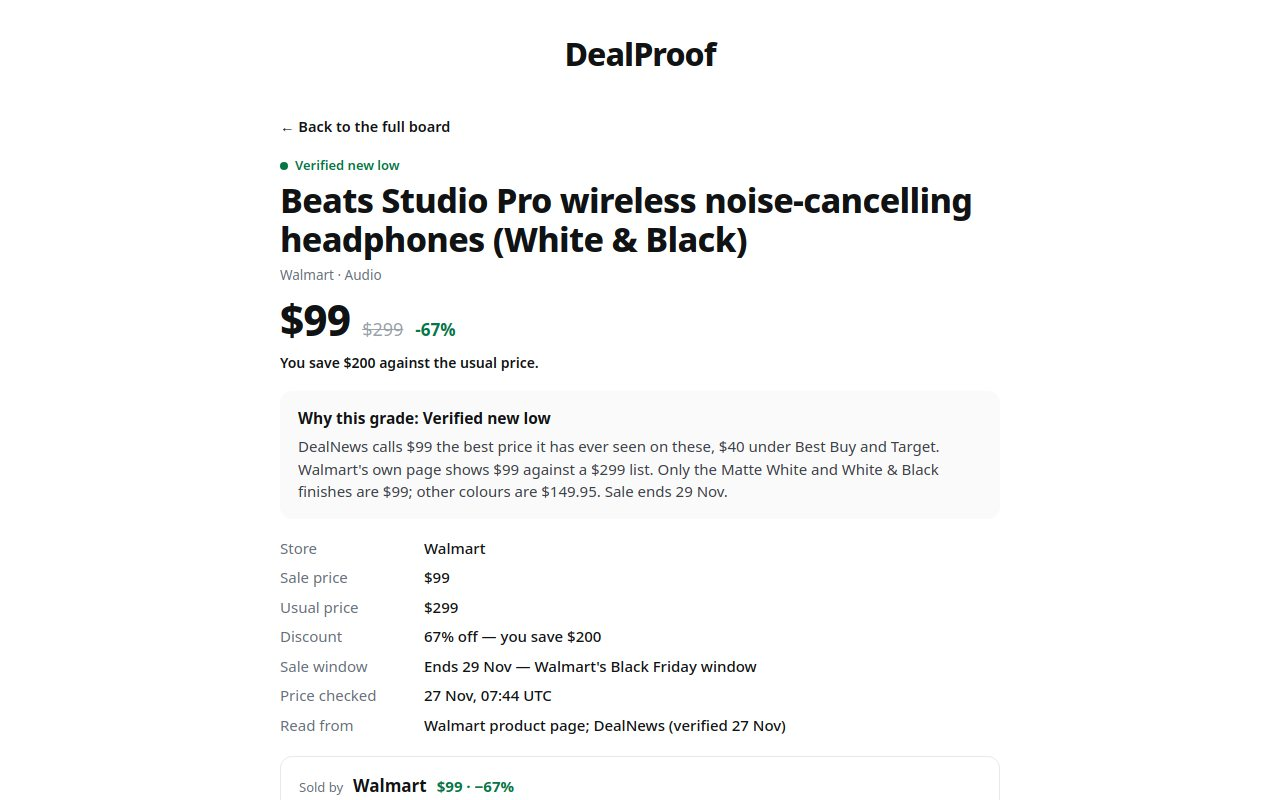
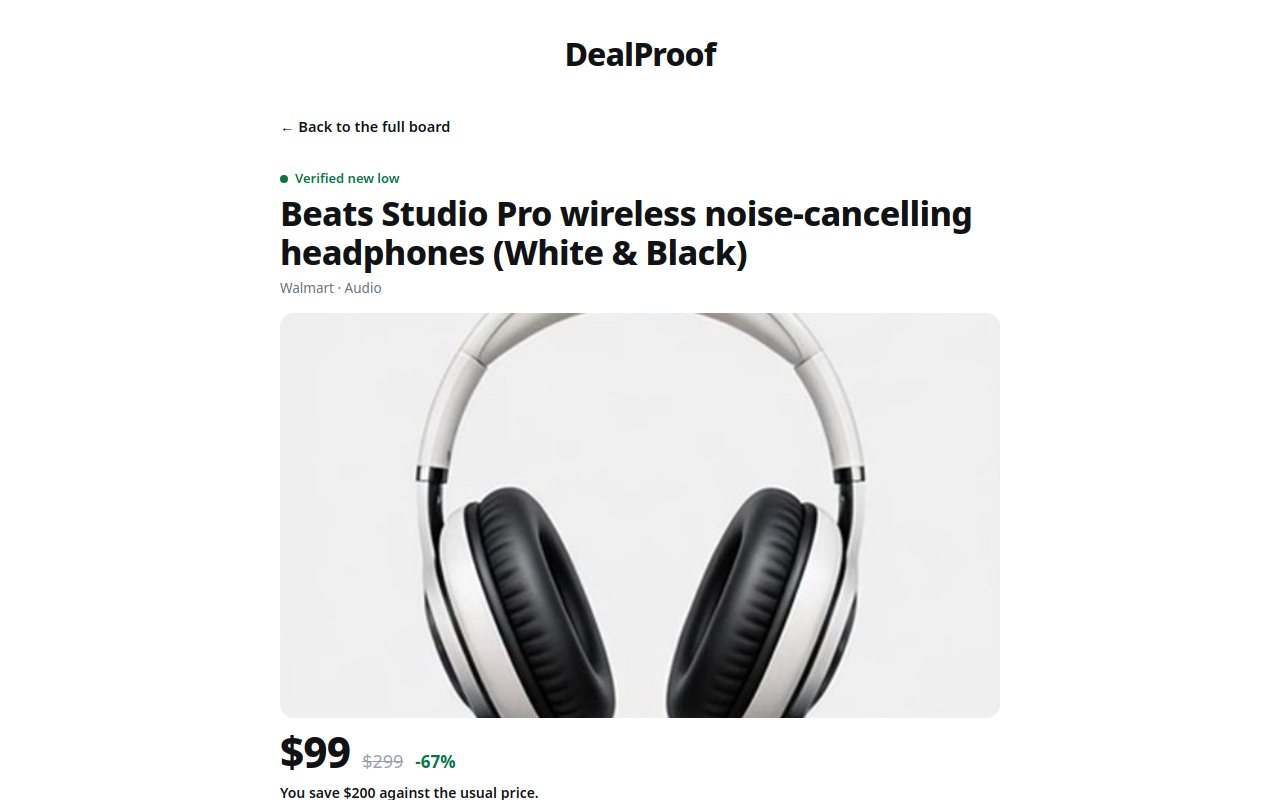
Product illustrations on every deal

Changed region(s): [[0.2188, 0.1875, 0.7812, 1.0], [0.2188, 0.7188, 0.2812, 0.875]]

diff --git a/app/style.css b/app/style.css
@@ -96,25 +96,56 @@ a:focus-visible, button:focus-visible, input:focus-visible, select:focus-visible
 
 /* The board: rows divided by hairlines, price set large at the right. */
 .board, .compare { max-width: 1120px; margin: 0 auto; padding: 6px 20px; }
-.grid { display: block; }
-.card {
-  display: grid;
-  grid-template-columns: minmax(0, 1fr) auto;
-  column-gap: 28px;
-  padding: 20px 2px 18px;
-  border-bottom: 1px solid var(--line);
+.grid { display: grid; grid-template-columns: 1fr; gap: 38px 26px; }
+@media (min-width: 860px) {
+  .grid { grid-template-columns: 1fr 1fr; }
 }
-.card:hover { background: var(--surface); }
+.card {
+  display: flex;
+  flex-direction: column;
+  height: 100%;
+}
+.card-media {
+  border-radius: 14px;
+  overflow: hidden;
+  background: #f1f1ee;
+  aspect-ratio: 4 / 3;
+}
+.card-img {
+  width: 100%;
+  height: 100%;
+  object-fit: cover;
+  display: block;
+  transition: transform 0.35s ease;
+}
+.card:hover .card-img { transform: scale(1.03); }
+.detail-img {
+  width: 100%;
+  aspect-ratio: 16 / 9;
+  object-fit: cover;
+  border-radius: 14px;
+  background: #f1f1ee;
+  display: block;
+  margin: 14px 0 4px;
+}
+.top5-thumb {
+  width: 42px;
+  height: 42px;
+  border-radius: 9px;
+  object-fit: cover;
+  flex: none;
+  align-self: center;
+  background: #f1f1ee;
+}
 .card { cursor: pointer; }
 .card-links { display: inline-flex; gap: 18px; }
 .details-link { font-size: 14px; font-weight: 600; text-decoration: none; white-space: nowrap; }
 .details-link:hover { text-decoration: underline; text-underline-offset: 3px; }
 .card-top {
-  grid-column: 1 / -1;
   display: flex;
   justify-content: space-between;
   align-items: center;
-  margin-bottom: 6px;
+  margin: 13px 0 6px;
 }
 .badge {
   display: inline-flex;
@@ -128,23 +159,19 @@ a:focus-visible, button:focus-visible, input:focus-visible, select:focus-visible
 .badge-strong { color: var(--strong); }
 .badge-routine { color: var(--routine); }
 .badge-inflated { color: var(--inflated); }
-.card-title { grid-column: 1; font-size: 18px; font-weight: 650; line-height: 1.3; margin: 0; letter-spacing: -0.01em; }
+.card-title { font-size: 18px; font-weight: 650; line-height: 1.3; margin: 0; letter-spacing: -0.01em; }
 .card-title a { text-decoration: none; }
 .card-title a:hover { text-decoration: underline; text-underline-offset: 3px; }
 .card-meta {
-  grid-column: 1;
   margin: 3px 0 0;
   font-size: 13.5px;
   color: var(--muted);
 }
 .card-prices {
-  grid-column: 2;
-  grid-row: 2 / 5;
   display: flex;
-  flex-direction: column;
-  align-items: flex-end;
-  gap: 0;
-  text-align: right;
+  align-items: baseline;
+  gap: 10px;
+  margin-top: 9px;
 }
 .price-now {
   font-size: 27px;
@@ -155,16 +182,24 @@ a:focus-visible, button:focus-visible, input:focus-visible, select:focus-visible
 }
 .price-was { font-size: 14px; color: var(--faint); text-decoration: line-through; font-variant-numeric: tabular-nums; }
 .price-off { font-size: 14.5px; font-weight: 700; color: var(--low); }
-.card-saves { grid-column: 1; margin: 8px 0 0; font-size: 14px; font-weight: 600; }
-.card-evidence { grid-column: 1; margin: 4px 0 0; font-size: 14.5px; color: #3c4149; max-width: 620px; }
+.card-saves { margin: 6px 0 0; font-size: 14px; font-weight: 600; }
+.card-evidence {
+  margin: 6px 0 0;
+  font-size: 14.5px;
+  color: #3c4149;
+  display: -webkit-box;
+  -webkit-line-clamp: 3;
+  -webkit-box-orient: vertical;
+  overflow: hidden;
+}
 .card-foot {
-  grid-column: 1 / -1;
   display: flex;
   justify-content: space-between;
   align-items: baseline;
   gap: 12px;
   flex-wrap: wrap;
-  margin-top: 10px;
+  margin-top: auto;
+  padding-top: 12px;
 }
 .card-checked { font-size: 12.5px; color: var(--faint); }
 .store-link { font-size: 14px; font-weight: 600; text-decoration: none; white-space: nowrap; }

diff --git a/app/views.js b/app/views.js
@@ -31,9 +31,62 @@ export function signalBadge(deal) {
   return badge;
 }
 
+// One original illustration per product family, drawn for this site and
+// shipped as local files — the board never loads anything from a network.
+const IMAGE_RULES = [
+  [/airpods pro|earbuds/i, "earbuds"],
+  [/airpods max|headphones/i, "headphones"],
+  [/watch/i, "watch"],
+  [/airtag/i, "tracker"],
+  [/odyssey|monitor/i, "monitor"],
+  [/ssd/i, "ssd"],
+  [/ipad|kindle|tablet/i, "tablet"],
+  [/iphone|smartphone|galaxy/i, "phone"],
+  [/switch|console/i, "console"],
+  [/vacuum/i, "vacuum"],
+  [/griddle/i, "griddle"],
+  [/slushi|frozen drink/i, "slushie"],
+  [/air fryer/i, "airfryer"],
+  [/coffee|keurig/i, "coffee"],
+  [/lego/i, "bricks"],
+  [/camper/i, "camper"],
+  [/speaker/i, "speaker"],
+  [/doorbell/i, "doorbell"],
+  [/macbook|laptop|omnibook|yoga|dell/i, "laptop"],
+  [/tv\b|television/i, "tv"],
+];
+const IMAGE_BY_CATEGORY = {
+  Audio: "headphones",
+  Wearables: "watch",
+  Computers: "laptop",
+  "Phones & Tablets": "phone",
+  TVs: "tv",
+  Gaming: "console",
+  "Smart Home": "speaker",
+  Home: "vacuum",
+  Kitchen: "airfryer",
+  Toys: "bricks",
+};
+export function imgFor(deal) {
+  for (const [pattern, name] of IMAGE_RULES) if (pattern.test(deal.title)) return name;
+  return IMAGE_BY_CATEGORY[deal.category] ?? "tv";
+}
+function productImg(deal, className) {
+  const img = document.createElement("img");
+  img.className = className;
+  img.src = `img/${imgFor(deal)}.jpg`;
+  img.alt = "";
+  img.loading = "lazy";
+  return img;
+}
+
 export function dealCard(deal, opts = {}) {
   const card = el("article", "card");
   card.id = `card-${deal.id}`;
+
+  const media = el("div", "card-media");
+  media.append(productImg(deal, "card-img"));
+  card.append(media);
 
   const top = el("div", "card-top");
   top.append(signalBadge(deal));
@@ -170,6 +223,7 @@ export function renderDetail(container, deal, allDeals) {
 
   wrap.append(el("h2", "detail-title", deal.title));
   wrap.append(el("p", "card-meta", `${deal.store} · ${deal.category}`));
+  wrap.append(productImg(deal, "detail-img"));
 
   const prices = el("div", "card-prices detail-prices");
   prices.append(el("span", "price-now", formatMoney(deal.price)));
@@ -248,6 +302,7 @@ export function renderTop5(container, deals) {
     .forEach((deal, i) => {
       const row = el("li", "top5-row");
       row.append(el("span", "top5-rank", String(i + 1)));
+      row.append(productImg(deal, "top5-thumb"));
       const link = el("a", "top5-link", deal.title);
       link.href = `#/deal/${deal.id}`;
       row.append(link);
